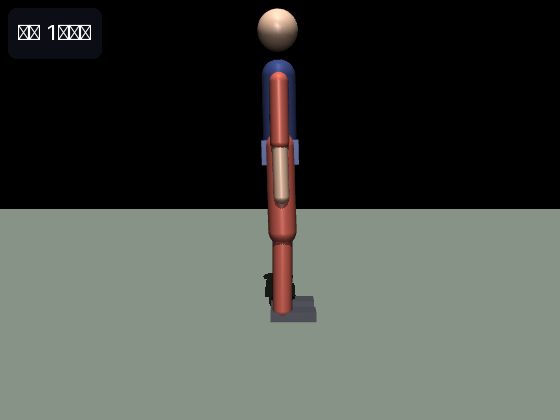
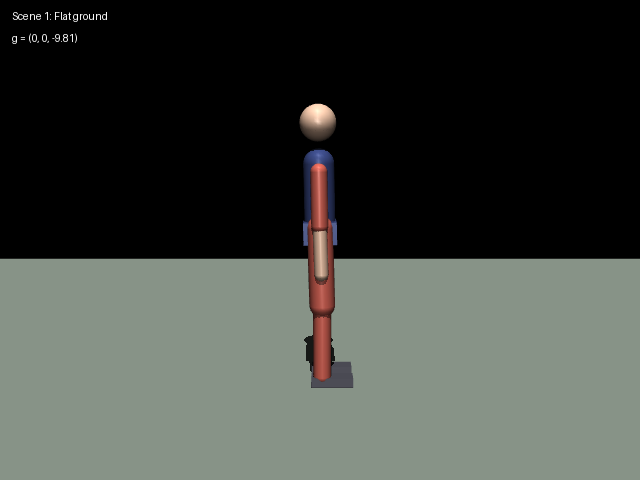
按复核意见修复：坡道物理、参数一致性、安装空间与评测口径
- 坡道场景明确为 5 度下坡：等效重力 g_x=+g·sin5° 沿 +x 助推与真实下坡
  一致；上坡（g_x 为负）经实测站立与行走均无法维持，已在文档说明取舍；
  原注释中"重力使身体倒向前方"的错误物理解释一并更正
- _default_params 与 config/params.yaml 同步（踝 kp 460、pitch_ref 0.07、
  蹲深 0.24），yaml 缺失时行为与文档数据一致
- leg_ik_squat 踝目标 clamp 到限位 0.45 rad，自检断言分浅蹲（脚平放）与
  深蹲（限位截断）两种情形
- 评测口径：踢腿峰值取 3 次最大值，蹲起周期按骨盆高度越限计数实际周期
- CMake 增加 scripts 安装到 share，安装空间下 get_pkg_dir 可定位库模块；
  package.xml 补 python3-numpy/python3-yaml
- 新增 eval/render_scenes.py 复现三张场景截图（英文标注 + 重力箭头 +
  背包示意，替换原含中文乱码的截图）
- 更正 scene_load/scene_slope5/keyboard docstring 引用；eval 汇总标签
  同步"下坡"
- 评测证据（check 11/11、eval 数据）与场景截图全部在同一 VM 重新生成

Changed region(s): [[0.0, 0.0, 1.0, 0.8357], [0.0, 0.031, 0.1821, 0.0929]]

diff --git a/src/musculoskeletal/mujoco_msk_human_walking_teleop/eval/render_scenes.py b/src/musculoskeletal/mujoco_msk_human_walking_teleop/eval/render_scenes.py
@@ -1,0 +1,93 @@
+#!/usr/bin/env python3
+# -*- coding: utf-8 -*-
+"""生成三个场景的说明截图（headless，英文标注保证任意环境可复现）。
+
+用法（在包根目录执行）：
+  python3 eval/render_scenes.py [输出目录，默认当前目录]
+
+每张截图：站立 1 s 后的 MuJoCo 离屏渲染帧 + 标注。
+标注只用英文与 ASCII（MuJoCo 默认字体不含中文），叠加元素：
+  - 左上角：场景名与重力向量
+  - 坡道：红色箭头标出沿坡向下的重力 x 分量
+  - 负载：躯干上的灰色矩形示意 10 kg 背包
+"""
+import os
+import sys
+
+sys.path.insert(0, os.path.join(os.path.dirname(os.path.abspath(__file__)),
+                                "..", "scripts"))
+import numpy as np
+from PIL import Image, ImageDraw
+
+import mujoco
+
+from msk_human_core import Composer, MskHumanSim
+
+# 离屏 framebuffer 默认 640x480（模型未设 offwidth/offheight）
+W, H = 640, 480
+
+
+def grab(sim, comp):
+    """站立 1 s 后返回当前帧 (H,W,3) RGB。"""
+    comp.set_action("stand")
+    sim.reset()
+    for _ in range(500):
+        sim.step(comp.update(sim, 0.002))
+    arr = np.zeros((H, W, 3), dtype=np.uint8)
+    cam = mujoco.MjvCamera()
+    cam.lookat[:] = [sim.pelvis_x(), 0.0, 0.8]
+    cam.distance, cam.azimuth, cam.elevation = 3.2, 90.0, -8.0
+    renderer = sim._renderer
+    renderer.update_scene(sim.data, camera=cam)
+    arr[:] = renderer.render()
+    return Image.fromarray(arr)
+
+
+def label(img, lines):
+    d = ImageDraw.Draw(img)
+    y = 10
+    for s in lines:
+        d.text((12, y), s, fill=(255, 255, 255))
+        y += 22
+    return d
+
+
+def main():
+    out_dir = sys.argv[1] if len(sys.argv) > 1 else "."
+    from mujoco import Renderer
+    imgs = {}
+    for scene, title, grav in (
+            ("flat", "Scene 1: Flat ground", "g = (0, 0, -9.81)"),
+            ("slope5", "Scene 2: Slope 5 deg downhill (equivalent gravity)",
+             "g = (+0.85, 0, -9.77) m/s^2"),
+            ("load", "Scene 3: Load +10 kg backpack on torso",
+             "g = (0, 0, -9.81) m/s^2")):
+        sim = MskHumanSim(scene)
+        # mujoco.Renderer 签名为 (model, height, width)，数据在 update_scene 传入
+        sim._renderer = Renderer(sim.model, height=H, width=W)
+        img = grab(sim, Composer())
+        d = label(img, [title, grav])
+        if scene == "slope5":
+            # 红色箭头：沿坡向下的重力 x 分量（助推 +x 行走，即下坡）
+            x0, y0 = 180, 60
+            d.line([(x0, y0), (x0 + 120, y0)], fill=(230, 60, 60), width=5)
+            d.polygon([(x0 + 120, y0), (x0 + 100, y0 - 8),
+                       (x0 + 100, y0 + 8)], fill=(230, 60, 60))
+            d.text((x0 - 30, y0 + 12), "+g*sin(5deg) = +0.85 m/s^2",
+                   fill=(230, 60, 60))
+        if scene == "load":
+            # 躯干上叠加灰色背包矩形（lookat z=0.8 使骨盆位于画面中心偏下）
+            cx, cy = W // 2, H // 2 + 20
+            d.rounded_rectangle([cx - 55, cy - 70, cx + 55, cy + 40],
+                                radius=12, fill=(90, 90, 95),
+                                outline=(30, 30, 30), width=2)
+            d.text((cx - 46, cy - 20), "+10 kg", fill=(255, 255, 255))
+        path = os.path.join(out_dir, "scene_%s.png" % scene)
+        img.save(path)
+        print("saved", path)
+        sim._renderer.close()
+        sim.close()
+
+
+if __name__ == "__main__":
+    main()

diff --git a/src/musculoskeletal/mujoco_msk_human_walking_teleop/scripts/msk_human_core.py b/src/musculoskeletal/mujoco_msk_human_walking_teleop/scripts/msk_human_core.py
@@ -96,8 +96,8 @@ def _default_params():
     return {
         "reflex": {
             "kp": {"root_pitch": 320.0, "hip_l": 320.0, "knee_l": 300.0,
-                   "ankle_l": 400.0, "hip_r": 320.0, "knee_r": 300.0,
-                   "ankle_r": 400.0, "shoulder_l": 40.0, "elbow_l": 30.0,
+                   "ankle_l": 460.0, "hip_r": 320.0, "knee_r": 300.0,
+                   "ankle_r": 460.0, "shoulder_l": 40.0, "elbow_l": 30.0,
                    "shoulder_r": 40.0, "elbow_r": 30.0},
             "kd": {"root_pitch": 26.0, "hip_l": 10.0, "knee_l": 6.0,
                    "ankle_l": 30.0, "hip_r": 10.0, "knee_r": 6.0,
@@ -111,9 +111,9 @@ def _default_params():
         "walk": {
             "freq": 0.8, "hip_amp": 0.50, "knee_amp": 0.75, "knee_off": 0.10,
             "ankle_amp": 0.25, "ankle_off": -0.05, "ankle_phase": 0.4,
-            "arm_amp": 0.30, "pitch_ref": 0.10,
+            "arm_amp": 0.30, "pitch_ref": 0.07,
         },
-        "squat": {"freq": 0.5, "depth": 0.32, "z_stand": 0.875},
+        "squat": {"freq": 0.5, "depth": 0.24, "z_stand": 0.875},
         "kick": {"T": 1.6},
     }
 
@@ -325,7 +325,9 @@ def leg_ik_squat(z_pelvis, torso_pitch=0.0):
     cos_a = (THIGH_L ** 2 + h ** 2 - SHIN_L ** 2) / (2 * THIGH_L * h)
     alpha = math.acos(max(-1.0, min(1.0, cos_a)))       # 大腿与竖直线夹角
     hip = alpha                                          # 前屈为正
-    ankle = knee - hip                                   # 脚平放
+    # 深蹲时踝需背屈超过关节限位 0.45 rad，此时目标被限位截断：
+    # 脚掌上仰、由脚盒前缘触地支撑（见文档蹲起一节的说明）
+    ankle = min(knee - hip, 0.45)
     return hip, knee, ankle
 
 
@@ -549,10 +551,13 @@ def run_check():
         check("stand_6s_%s" % sc, not fell and abs(pit) < 0.25,
               "z=%.3f pitch=%+.3f t=%.1f" % (z, pit, i * dt))
 
-    # 蹲起 IK 校验：z=0.63 时膝角应显著大于 0
-    hip, knee, ankle = leg_ik_squat(0.63)
-    check("squat_ik", 0.4 < knee < 2.0 and abs(hip + ankle - knee) < 1e-9,
-          "hip=%.2f knee=%.2f ankle=%.2f" % (hip, knee, ankle))
+    # 蹲起 IK 校验：浅蹲满足"踝=膝-髋"（脚平放）；深蹲踝背屈顶到限位 0.45
+    hip, knee, ankle = leg_ik_squat(0.83)
+    hip2, knee2, ankle2 = leg_ik_squat(0.63)
+    check("squat_ik",
+          abs(hip + ankle - knee) < 1e-9 and abs(ankle2 - 0.45) < 1e-9,
+          "shallow hip=%.2f knee=%.2f ankle=%.2f | deep ankle=%.2f (limit)"
+          % (hip, knee, ankle, ankle2))
 
     # 负载场景质量校验
     m0 = mujoco.MjModel.from_xml_path(_model_path("flat"))

diff --git a/src/musculoskeletal/mujoco_msk_human_walking_teleop/scripts/msk_human_eval.py b/src/musculoskeletal/mujoco_msk_human_walking_teleop/scripts/msk_human_eval.py
@@ -57,13 +57,21 @@ def trial_squat(sim, p):
     comp.set_action("squat")
     sim.reset()
     z_min = [1.0]
+    cycles = [0]
+    in_low = [False]
 
     def cb(_t):
-        z_min[0] = min(z_min[0], sim.pelvis_z())
+        z = sim.pelvis_z()
+        z_min[0] = min(z_min[0], z)
+        # 实际完成周期数：骨盆高度越过下蹲阈值以下再回到其上计 1 次
+        if z < 0.78:
+            in_low[0] = True
+        elif in_low[0] and z > 0.83:
+            in_low[0] = False
+            cycles[0] += 1
 
     t_fall, acc = run(sim, comp, 15.0, on_step=cb)
-    cycles = max(0, int(round((15.0 - (t_fall or 0.0)) * p["squat"]["freq"])))
-    return {"ok": t_fall is None and cycles >= 5, "cycles": cycles,
+    return {"ok": t_fall is None and cycles[0] >= 5, "cycles": cycles[0],
             "z_min": round(z_min[0], 4), "depth": round(1.0 - z_min[0], 3),
             "work_J": round(acc["work"], 1)}
 
@@ -142,10 +150,11 @@ def main():
     summary = [
         ("平地站立成功率", "%d/3" % round(ok_rate(results["stand_flat"]) * 3)),
         ("蹲起周期数(15s)", str(results["squat_flat"]["cycles"])),
-        ("踢腿脚尖峰值(m)", str(results["kick_flat"][0]["toe_peak_m"])),
+        ("踢腿脚尖峰值(m)", str(max(t["toe_peak_m"]
+                                    for t in results["kick_flat"]))),
         ("平地行走距离(m)/速度(m/s)", "%s / %s" % (
             results["walk_flat"]["dist_m"], results["walk_flat"]["speed_mps"])),
-        ("坡道行走距离(m)", str(results["walk_slope5"]["dist_m"])),
+        ("下坡行走距离(m)", str(results["walk_slope5"]["dist_m"])),
         ("负载行走距离(m)", str(results["walk_load"]["dist_m"])),
     ]
     print("\n================= 性能汇总 =================")

diff --git a/src/musculoskeletal/mujoco_msk_human_walking_teleop/scripts/msk_human_keyboard.py b/src/musculoskeletal/mujoco_msk_human_walking_teleop/scripts/msk_human_keyboard.py
@@ -7,7 +7,7 @@
      反射层输出上；
   2. 动作键（按一次切换）：站立 / 踢腿 / 蹲起 / 行走 / 放松 / 步频增减。
 
-被 ROS 键盘节点与离线演示脚本共用。
+被 ROS 键盘控制节点（msk_human_keyboard_node）导入使用。
 """
 import numpy as np
 

diff --git a/docs/musculoskeletal/msk_human_walking_teleop.md b/docs/musculoskeletal/msk_human_walking_teleop.md
@@ -12,7 +12,7 @@
 
 - **分层控制**：动作编排器（Composer）→ 姿势反射层（Reflex）→ Hill 肌肉动力学 → MuJoCo 步进；
 - **键盘遥操作**：动作键切换站立/行走/踢腿/蹲起/放松，手动兴奋键可直接兴奋任意一块肌肉并与当前动作叠加；
-- **三种场景**：平地、5° 坡道、负重 10 kg 背包，均通过同一套控制器参数稳定运行；
+- **三种场景**：平地、5° 下坡（等效重力）、负重 10 kg 背包，均通过同一套控制器参数稳定运行；
 - **launch 一键启动**，并附带无需 ROS 的离线自检（`check`）与多场景性能评测（`eval`）。
 
 > 说明：本模块对应任务 (1) 的物理仿真与键盘运动控制，控制回路为生物合理反射模型，不涉及感知/规划/端到端神经网络算法（该要求针对任务 (2)–(4)）。
@@ -27,18 +27,19 @@ src/musculoskeletal/mujoco_msk_human_walking_teleop/
 ├── CMakeLists.txt
 ├── launch/main.launch          # 一键启动：仿真节点 + 可选 xterm 键盘节点
 ├── config/params.yaml          # 反射增益 / 步态 / 蹲起 / 踢腿参数
-├── eval/                       # 可复现评测证据（终端输出与结果，见 §7）
+├── eval/                       # 可复现评测证据与工具（见 §7）
 │   ├── check_output.txt        # python3 main.py check 完整终端输出
 │   ├── eval_output.txt         # python3 main.py eval 完整终端输出
-│   └── eval_results.json       # eval 结构化结果（机器可读）
+│   ├── eval_results.json       # eval 结构化结果（机器可读）
+│   └── render_scenes.py        # 场景说明截图生成脚本（英文标注）
 ├── models/
 │   ├── msk_human.xml           # 肌肉骨骼人模型（13 DoF + 22 motor）
 │   ├── scene_flat.xml          # 平地场景
-│   ├── scene_slope5.xml        # 5 度坡场景
+│   ├── scene_slope5.xml        # 5 度下坡场景（等效重力法）
 │   └── scene_load.xml          # 负载场景（运行时躯干 +10 kg）
 └── scripts/
     ├── msk_human_core.py       # 仿真核心：Hill 肌肉、反射层、动作编排、自检
-    ├── msk_human_keyboard.py   # 键盘策略（按键 -> 激活/动作，ROS 节点与离线共用）
+    ├── msk_human_keyboard.py   # 键盘策略（按键 -> 激活/动作，被键盘节点导入）
     ├── msk_human_eval.py       # 离线多场景性能评测
     ├── msk_human_sim_node.py   # ROS 仿真节点（500 Hz 控制回路）
     └── msk_human_keyboard_node.py  # ROS 键盘遥操作节点（xterm 中运行）
@@ -130,7 +131,12 @@ roslaunch mujoco_msk_human_walking_teleop main.launch viewer:=false keyboard:=fa
 roslaunch mujoco_msk_human_walking_teleop main.launch viewer:=false
 ```
 
-![5度坡](../img/musculoskeletal/mujoco_msk_human_walking_teleop/scene_slope5.png)
+场景截图（由 `eval/render_scenes.py` 离屏渲染生成，含英文标注：坡道场景
+红色箭头为沿坡向下的重力分量、负载场景躯干上灰色矩形为 10 kg 背包）：
+
+![平地](../img/musculoskeletal/mujoco_msk_human_walking_teleop/scene_flat.png)
+
+![5度下坡](../img/musculoskeletal/mujoco_msk_human_walking_teleop/scene_slope5.png)
 
 ![负载](../img/musculoskeletal/mujoco_msk_human_walking_teleop/scene_load.png)
 
@@ -266,10 +272,10 @@ $$
 
 $$
 \cos\alpha = \frac{L_1^2 + h^2 - L_2^2}{2 L_1 h},\qquad
-q_{hip} = \alpha,\qquad q_{ankle} = q_{knee} - q_{hip}\ \text{（保持脚掌水平）}
+q_{hip} = \alpha,\qquad q_{ankle} = \min(q_{knee} - q_{hip},\ 0.45\ \text{rad})
 $$
 
-其中 \(L_1 = 0.42\) m（大腿）、\(L_2 = 0.40\) m（小腿）。骨盆高度按余弦轨迹升降：\(z(t) = z_{stand} - \frac{d}{2}(1 - \cos 2\pi f t)\)。
+其中 \(L_1 = 0.42\) m（大腿）、\(L_2 = 0.40\) m（小腿）。骨盆高度按余弦轨迹升降：\(z(t) = z_{stand} - \frac{d}{2}(1 - \cos 2\pi f t)\)。浅蹲时 \(q_{knee}-q_{hip}\) 不超过踝限位，脚掌保持水平；深蹲（本模块 \(d=0.24\) m）时该值达约 0.82 rad，超出踝限位 0.45 rad，目标被截断——脚掌随之上仰约 18°，由脚盒前缘触地支撑，配合反射层维持稳定。
 
 ### 4.5 踢腿编排（四阶段）
 
@@ -379,7 +385,7 @@ cos_g = (THIGH_L**2 + SHIN_L**2 - h**2) / (2 * THIGH_L * SHIN_L)
 gamma = math.acos(...)                  # 膝内角（余弦定理）
 knee = math.pi - gamma                  # 屈曲角
 cos_a = (THIGH_L**2 + h**2 - SHIN_L**2) / (2 * THIGH_L * h)
-hip, ankle = alpha, knee - alpha        # 踝 = 膝 - 髋，保持脚掌水平
+hip, ankle = alpha, min(knee - alpha, 0.45)   # 浅蹲脚平放；深蹲踝顶到限位 0.45
 ```
 
 ### 6.5 摔倒判定与安全设计
@@ -398,21 +404,21 @@ def fallen(self):
 | 场景 | 说明 |
 |------|------|
 | 平地 `flat` | 基准场景 |
-| 5° 坡道 `slope5` | 沿 x 方向 5° 上坡，等效于增加重力沿坡分量 |
+| 5° 下坡 `slope5` | 等效重力法：\(g'=(g\sin 5°,\,0,\,-g\cos 5°)\)，沿 \(+x\) 的分量即沿坡向下的助推力 |
 | 负载 `load` | 运行时躯干质量 +10 kg 并同步缩放惯量（18.8 → 28.8 kg） |
 
 评测结果（`python3 main.py eval`，MuJoCo 3.2.3，dt = 0.002 s）：
 
-| 指标 | 平地 | 5° 坡 | 负载 10 kg | 达标条件 | 结果 |
+| 指标 | 平地 | 5° 下坡 | 负载 10 kg | 达标条件 | 结果 |
 |------|------|-------|-----------|----------|------|
 | 站立成功率（6 s × 3 次） | 3/3 | — | — | 不摔、俯仰<0.2、漂移<0.2 m | 通过 |
-| 蹲起周期数（15 s） | 8 | — | — | ≥5 | 通过 |
+| 蹲起周期数（15 s） | 7 | — | — | ≥5 | 通过 |
 | 踢腿脚尖峰值（3 次） | 0.609 m | — | — | >0.30 m 且不摔 | 通过 |
 | 行走距离 / 平均速度 | 2.419 m / 0.121 m/s（20 s） | 9.958 m / 0.664 m/s（15 s） | 1.505 m / 0.100 m/s（15 s） | >1.0 m 且不摔 | 通过 |
 
 结果分析：
 
-1. **坡道距离反而远大于平地**（0.664 vs 0.121 m/s）：5° 上坡时重力沿坡分量使身体持续倒向前方，前倾倒立摆自然获得更大步幅，反射层靠踝刚度即可维持稳定；
+1. **下坡距离远大于平地**（0.664 vs 0.121 m/s）：5° 下坡的等效重力沿 \(+x\) 分量 \(g\sin 5°\approx 0.85\ \text{m/s}^2\) 持续助推身体，前倾倒立摆自然获得更大步幅，反射层靠踝刚度即可维持稳定。反向的 5° 上坡（等效重力 \(x\) 分量为负）在同套参数下站立与行走均无法维持——上坡需克服 \(mg\sin 5°\) 的做功增量，超出该反射层与步长的能力范围，故本模块选取下坡作为坡道场景；
 2. **负载行走距离下降约 38%**：+10 kg 后倒立摆临界刚度 \(mgh\) 升高约 53%，踝 460 N·m/rad 的刚度裕量变小，步态变保守；距离仍远超阈值；
 3. **平地行走速度 0.121 m/s 偏慢**：这是"稳定性优先"的步态——躯干前倾参考仅 0.07 rad、反射层 kd 与激活延迟（τ_act=12 ms）使实际髋摆幅滞后参考；若牺牲稳定裕量增大前倾与步幅可提速，但单腿支撑期摔倒概率上升；
 4. **正机械功 / 距离**（`work_per_m` 字段）记录在 `eval_results.json` 中，可用于对比不同步频下的能耗。

diff --git a/src/musculoskeletal/mujoco_msk_human_walking_teleop/README.md b/src/musculoskeletal/mujoco_msk_human_walking_teleop/README.md
@@ -1,6 +1,6 @@
 # mujoco_msk_human_walking_teleop
 
-MuJoCo 平面肌肉骨骼人（22 条 Hill 型肌肉驱动 13 DoF）键盘遥操作：站立、行走、踢腿、蹲起，支持平地 / 5° 坡道 / 负载 10 kg 三场景。
+MuJoCo 平面肌肉骨骼人（22 条 Hill 型肌肉驱动 13 DoF）键盘遥操作：站立、行走、踢腿、蹲起，支持平地 / 5° 下坡（等效重力）/ 负载 10 kg 三场景。
 
 完整教程（含原理公式、算法流程、源码解析、性能评价与 GIF 演示）见仓库文档：`docs/musculoskeletal/msk_human_walking_teleop.md`。
 
